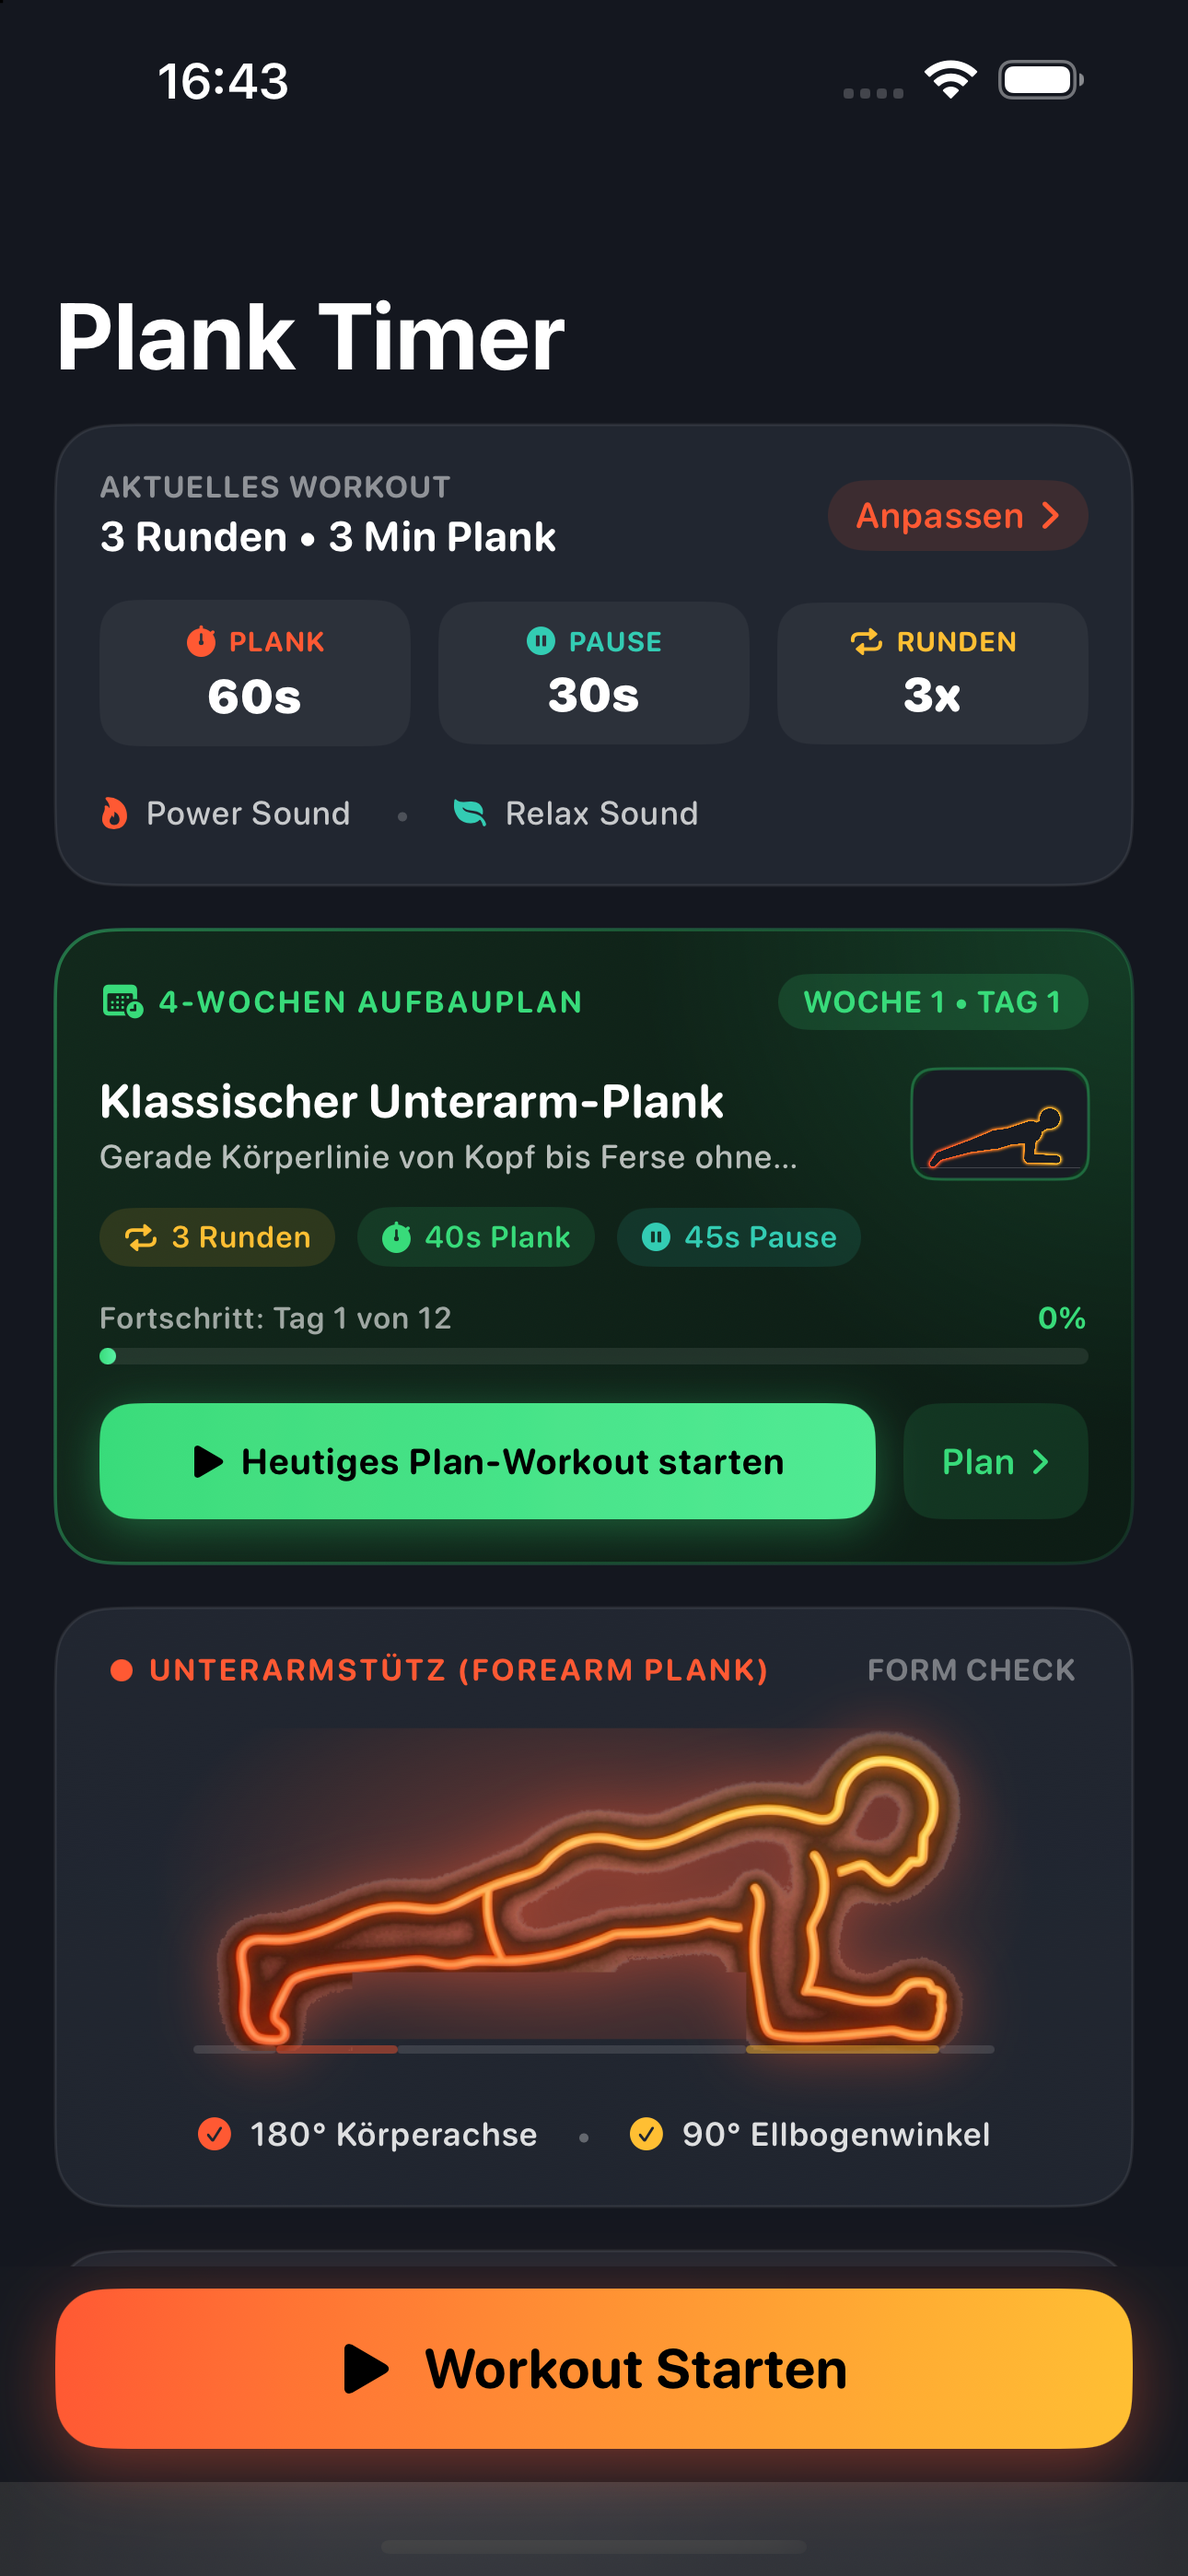
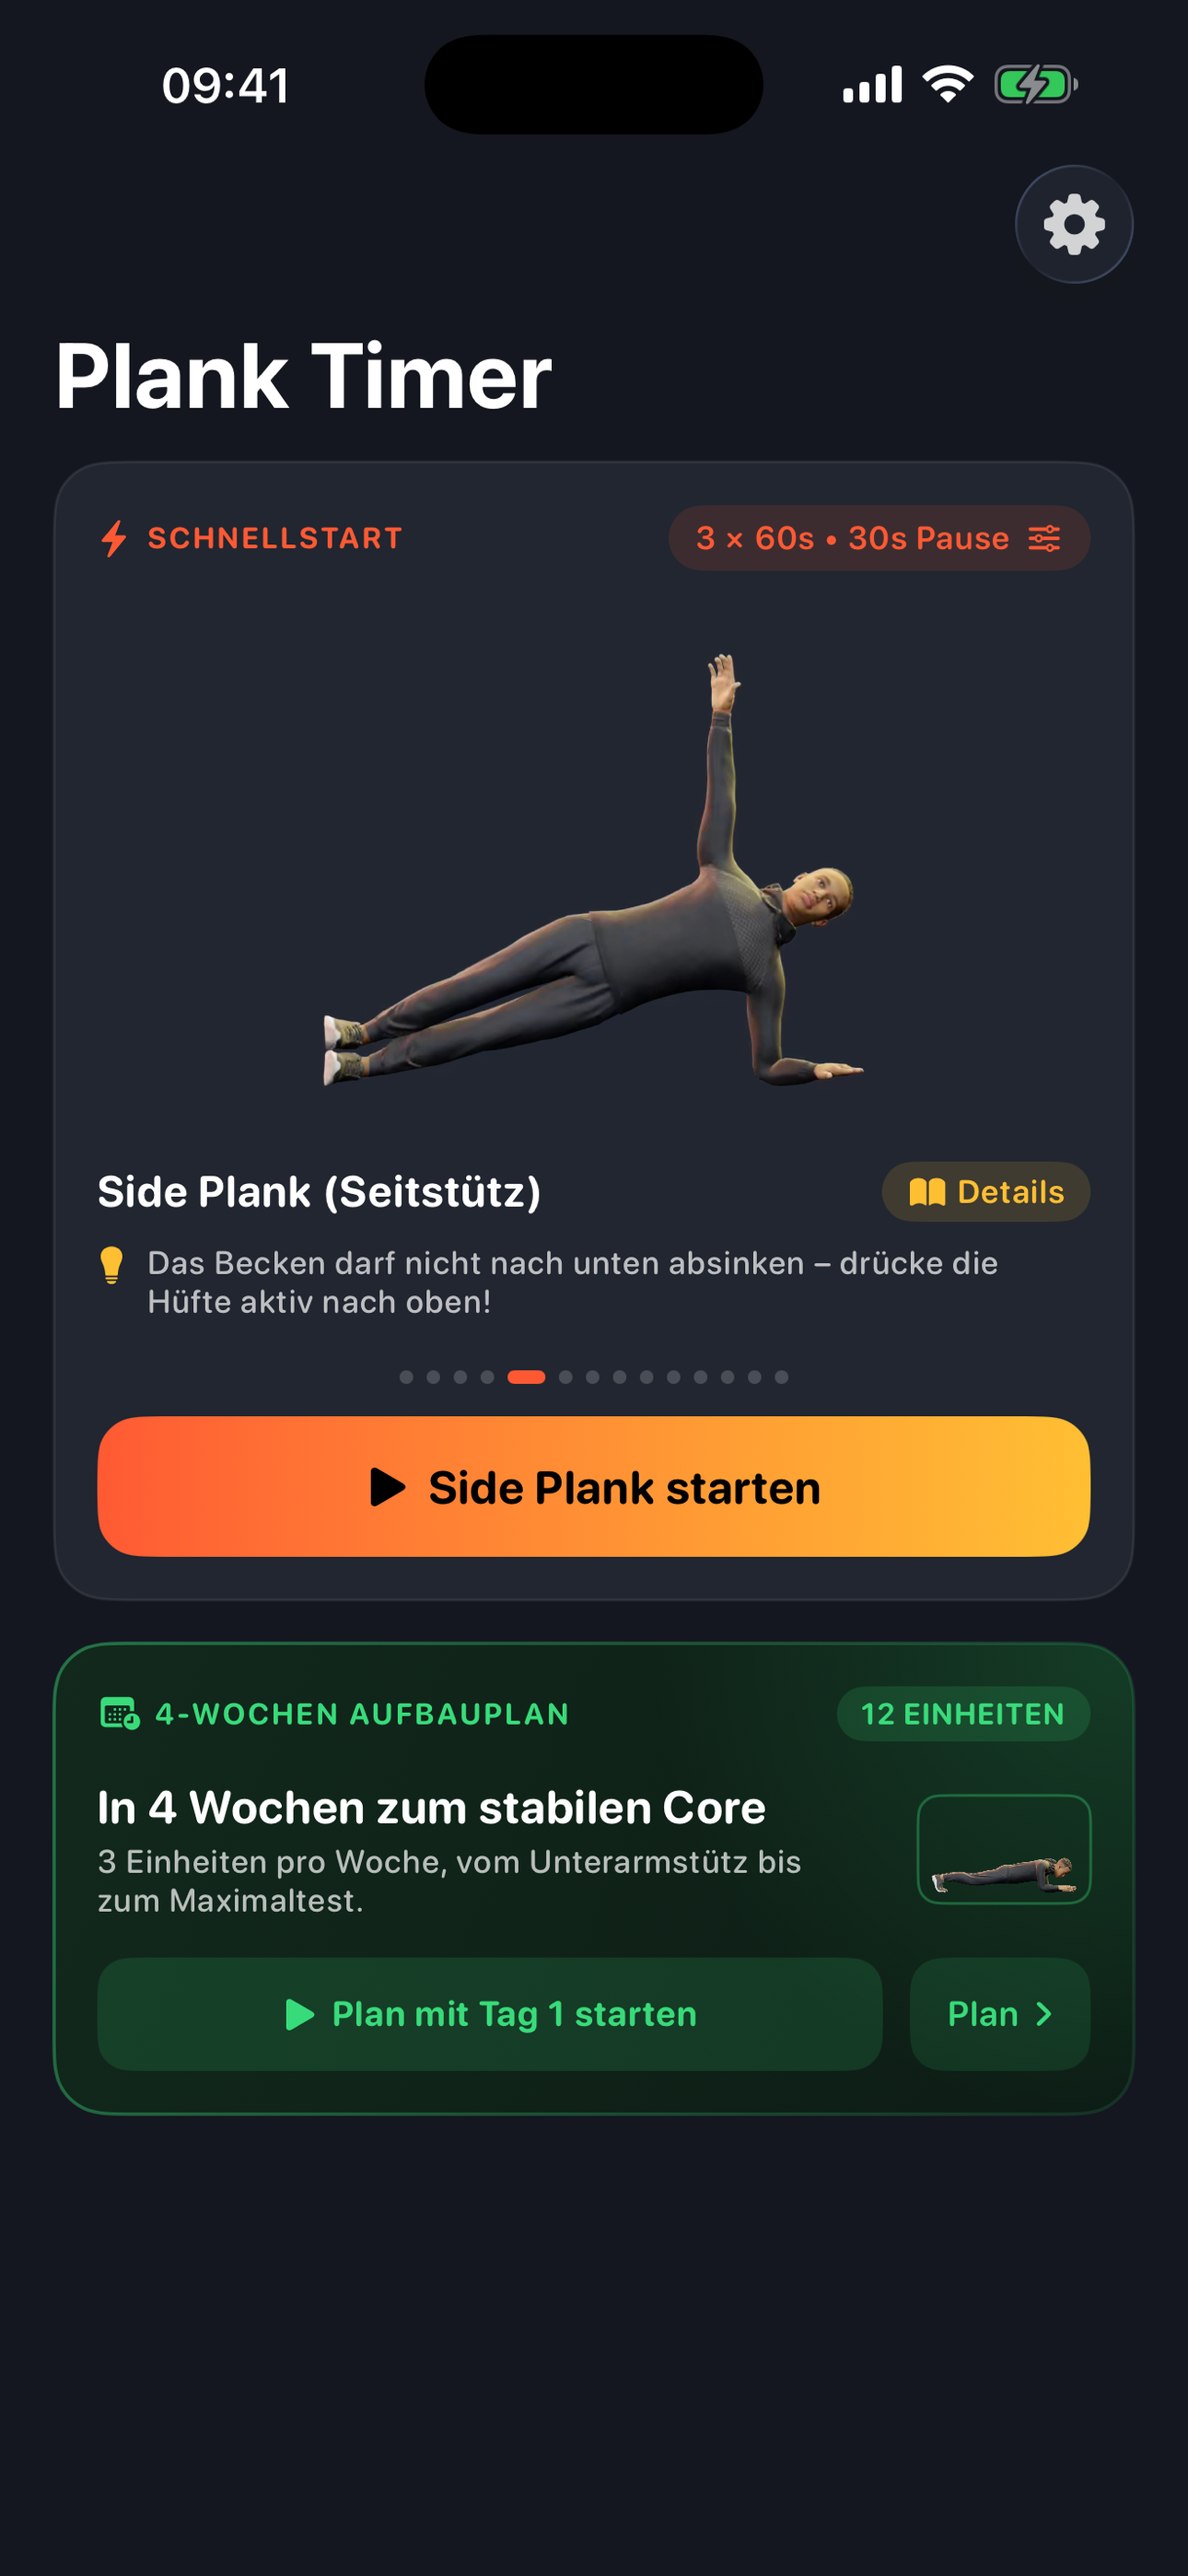
feat(plank-timer): update for v1.3.0 with 3D animations and new home screen
- Badges, hero text and stats for v1.3.0: realistic 3D animations for all
  14 plank types (female or male figure) and swipe-to-start quick start
- Six new 6.7" screenshots incl. the home screen with a running plan
- Feature card "Realistische 3D-Übungsfiguren" replaces the removed
  posture guide; apps and index teasers updated

diff --git a/plank-timer.html b/plank-timer.html
@@ -3,7 +3,7 @@
 <head>
   <meta charset="UTF-8">
   <meta name="viewport" content="width=device-width, initial-scale=1.0">
-  <meta name="description" content="Plank Musik Timer – Der smarte Intervall- und Core-Timer für iOS mit KI-Kamera-Form-Coach (Apple Vision), Apple Music Synchronisation, dynamischem Voice Coach und Apple Health Integration.">
+  <meta name="description" content="Plank Musik Timer – Der smarte Intervall- und Core-Timer für iOS mit realistischen 3D-Animationen für 14 Plank-Arten, Schnellstart per Wischen, KI-Kamera-Form-Coach (Apple Vision), Apple Music Synchronisation, dynamischem Voice Coach und Apple Health Integration.">
   <meta name="keywords" content="Plank Musik Timer, Plank Timer, Core Training App, Workout Timer Apple Music, Intervalltimer iOS, HealthKit Workout, Live Activity Timer, Dynamic Island, Alexander Wodniok">
   <meta name="author" content="Alexander Wodniok">
   <link rel="canonical" href="https://wodniok-service.de/plank-timer.html">
@@ -54,13 +54,13 @@
       <div class="hero-content">
         <div style="display: flex; gap: 0.5rem; flex-wrap: wrap; margin-bottom: 0.75rem;">
           <div class="badge badge-orange">Intervall- & Core-Workout für iOS</div>
-          <div class="badge badge-green">Neu in v1.2.0: KI-Kamera-Form-Coach</div>
+          <div class="badge badge-green">Neu in v1.3.0: 3D-Animationen für alle 14 Plank-Arten</div>
           <div class="badge" style="background: rgba(16, 185, 129, 0.12); color: #10b981; border-color: rgba(16, 185, 129, 0.3);">4-Wochen-Aufbauplan</div>
           <div class="badge" style="background: rgba(255, 122, 0, 0.12); color: #ff7a00; border-color: rgba(255, 122, 0, 0.3);">Apple Music & HealthKit Sync</div>
         </div>
         <h1>Plank <span class="text-gradient-orange">Musik Timer</span> 🔥</h1>
         <p class="hero-subtitle">
-          Hol das Maximum aus deinem Core-Training heraus. <strong>Plank Musik Timer (v1.2.0)</strong> kombiniert präzises Intervall-Timing mit einem intelligenten <strong>KI-Kamera-Form-Coach (Apple Vision)</strong> für Live-Haltungsfeedback, einem geführten <strong>4-Wochen-Aufbauplan</strong>, einem umfassenden <strong>Übungs-Lexikon mit 14 Plank-Varianten</strong> und deiner eigenen <strong>Apple Music Mediathek</strong>. 100% On-Device, mit dynamischem <strong>Voice Coach (Audio-Ducking)</strong>, <strong>Live Activities</strong> und <strong>Apple Health</strong> Synchronisation.
+          Hol das Maximum aus deinem Core-Training heraus. <strong>Plank Musik Timer (v1.3.0)</strong> zeigt dir jede der <strong>14 Plank-Varianten als realistische 3D-Animation</strong> – wahlweise mit weiblicher oder männlicher Figur. Wische im <strong>Schnellstart</strong> zur gewünschten Übung und leg mit deinem üblichen Set los, folge dem geführten <strong>4-Wochen-Aufbauplan</strong> oder lass dich vom <strong>KI-Kamera-Form-Coach (Apple Vision)</strong> korrigieren – begleitet von deiner eigenen <strong>Apple Music Mediathek</strong>. 100% On-Device, mit dynamischem <strong>Voice Coach (Audio-Ducking)</strong>, <strong>Live Activities</strong> und <strong>Apple Health</strong> Synchronisation.
         </p>
 
         <div class="hero-buttons" style="display: flex; align-items: center; gap: 1.25rem; flex-wrap: wrap;">
@@ -79,7 +79,7 @@
           </div>
           <div class="stat-item">
             <h4>14 Varianten</h4>
-            <p>Übungs-Lexikon & Posen</p>
+            <p>Als 3D-Animation</p>
           </div>
           <div class="stat-item">
             <h4>Apple Music & Health</h4>
@@ -91,7 +91,7 @@
       <!-- App Screenshot Hero -->
       <div class="hero-visual">
         <div class="app-visual-wrapper">
-          <img src="images/plank-timer-screenshot-home.png" alt="Plank Musik Timer Startseite mit Plank-Haltungsguide und Schnellstart" class="app-screenshot-hero" style="border-color: rgba(255, 122, 0, 0.45); box-shadow: var(--shadow-glow-orange); max-width: 290px;">
+          <img src="images/plank-timer-screenshot-home.png" alt="Plank Musik Timer Startseite mit Schnellstart und animiertem Side Plank" class="app-screenshot-hero" style="border-color: rgba(255, 122, 0, 0.45); box-shadow: var(--shadow-glow-orange); max-width: 290px;">
         </div>
       </div>
     </div>
@@ -103,16 +103,16 @@
       <div class="section-header" style="margin-bottom: 2rem;">
         <div class="badge badge-orange">Einblicke in die App</div>
         <h2>App-Screenshots & Benutzeroberfläche</h2>
-        <p>Klares, ablenkungsfreies Dark-Design mit warmen Akzenten – optimiert für schnellen Start direkt auf der Trainingsmatte.</p>
+        <p>Klares, ablenkungsfreies Dark-Design mit realistischen 3D-Übungsfiguren – optimiert für schnellen Start direkt auf der Trainingsmatte.</p>
       </div>
 
       <div class="screenshots-gallery-grid" style="grid-template-columns: repeat(auto-fit, minmax(220px, 1fr)); gap: 1.5rem;">
         <!-- Item 1: Startseite -->
         <div class="screenshot-gallery-item orange-hover">
           <div class="screenshot-img-box">
-            <img src="images/plank-timer-screenshot-home.png" alt="Plank Musik Timer Startseite mit smartem Plan und Haltungscheck">
+            <img src="images/plank-timer-screenshot-home.png" alt="Schnellstart mit Wisch-Auswahl der Plank-Art und 3D-Animation">
           </div>
-          <div class="screenshot-caption">🏠 Smarte Startseite mit 4-Wochen-Plan & Form-Check</div>
+          <div class="screenshot-caption">⚡ Schnellstart: Plank-Art wischen und direkt loslegen</div>
         </div>
 
         <!-- Item 2: KI-Kamera-Coach im Workout -->
@@ -123,12 +123,12 @@
           <div class="screenshot-caption">🤖 KI-Kamera-Coach: Live-Skelett & Form-Feedback im Workout</div>
         </div>
 
-        <!-- Item 3: Kamera-Coach Studio -->
+        <!-- Item 3: Startseite mit laufendem Plan -->
         <div class="screenshot-gallery-item orange-hover" style="border-color: rgba(16, 185, 129, 0.4);">
           <div class="screenshot-img-box">
-            <img src="images/plank-timer-screenshot-studio.png" alt="Kamera-Coach Studio und Kalibrierung mit 0.5x Ultra-Weitwinkel">
+            <img src="images/plank-timer-screenshot-home-plan.png" alt="Startseite mit laufendem 4-Wochen-Plan und weiblicher Übungsfigur">
           </div>
-          <div class="screenshot-caption">🔬 Kamera-Studio: 0.5× Ultra-Weitwinkel & Gelenkwinkel-Check</div>
+          <div class="screenshot-caption">📆 Laufender Plan: Heutiges Workout ganz oben, auch mit weiblicher Figur</div>
         </div>
 
         <!-- Item 4: 4-Wochen-Aufbauplan -->
@@ -142,17 +142,17 @@
         <!-- Item 5: Übungs-Lexikon -->
         <div class="screenshot-gallery-item orange-hover">
           <div class="screenshot-img-box">
-            <img src="images/plank-timer-screenshot-lexikon.png" alt="Plank Übungs-Lexikon mit anatomischem Posen-Piktogramm">
+            <img src="images/plank-timer-screenshot-lexikon.png" alt="Übungs-Lexikon mit 3D-Animation, Zielmuskulatur und Coach-Tipp">
           </div>
-          <div class="screenshot-caption">📖 Übungs-Lexikon mit 14 Varianten & Posen-Piktogrammen</div>
+          <div class="screenshot-caption">📖 Übungs-Lexikon: 14 Varianten mit 3D-Animation & Coach-Tipp</div>
         </div>
 
         <!-- Item 6: Einstellungen & Health -->
         <div class="screenshot-gallery-item orange-hover">
           <div class="screenshot-img-box">
-            <img src="images/plank-timer-screenshot-settings.png" alt="Plank Musik Timer Einstellungen und KI-Coach Schalter">
+            <img src="images/plank-timer-screenshot-settings.png" alt="Plank Musik Timer Einstellungen mit Zeiten, Apple Health und Übungsfigur">
           </div>
-          <div class="screenshot-caption">⚙ Einstellungen: KI-Coach, Apple Music & HealthKit Sync</div>
+          <div class="screenshot-caption">⚙ Einstellungen: Zeiten, Übungsfigur, Apple Music & HealthKit</div>
         </div>
       </div>
     </div>
@@ -209,8 +209,8 @@
           <div class="feature-icon orange">
             <svg viewBox="0 0 24 24" fill="none" stroke="currentColor" stroke-width="2"><path d="M18 20V10"></path><path d="M12 20V4"></path><path d="M6 20v-6"></path></svg>
           </div>
-          <h3>Integrierter Plank-Haltungsguide</h3>
-          <p>Qualität vor Quantität: Die Startseite visualisiert die ergonomisch perfekte Plank-Körperlinie und fasst die wichtigsten Haltungsgrundsätze zusammen – gerader Rücken, angespannter Rumpf, stabile Schultern und gleichmäßige Atmung.</p>
+          <h3>Realistische 3D-Übungsfiguren</h3>
+          <p>Statt Strichmännchen machen animierte Athletinnen und Athleten jede der <strong>14 Plank-Varianten</strong> vor – inklusive der kompletten Bewegung bei Up-Downs, Mountain Climbers, Spider Plank und Hip Dips. Wähle in den Einstellungen eine <strong>weibliche oder männliche Figur</strong>; jede Übung kommt mit Zielmuskulatur und Coach-Tipp.</p>
         </div>
 
         <!-- Feature 6: Privacy First & Offline -->

diff --git a/apps.html b/apps.html
@@ -155,7 +155,7 @@
             </div>
 
             <p style="font-size: 1rem; margin-bottom: 0;">
-              Der smarte Workout-Timer für dein Core- und Intervall-Training: Version 1.2.0 bringt einen innovativen KI-Kamera-Form-Coach (Apple Vision On-Device) für Echtzeit-Haltungsfeedback, einen geführten 4-Wochen-Aufbauplan (12 Progressionstage) und ein umfassendes Übungs-Lexikon mit 14 Plank-Varianten & anatomischen Posen-Piktogrammen. Synchronisiere Power- und Relax-Playlists aus Apple Music, trainiere mit dynamischem Voice Coach (Audio-Ducking) und schließe deine Ringe mit direkter Apple Health Integration.</p>
+              Der smarte Workout-Timer für dein Core- und Intervall-Training: Version 1.3.0 zeigt alle 14 Plank-Varianten als realistische 3D-Animation (weibliche oder männliche Figur) und bietet einen Schnellstart per Wischgeste, dazu einen KI-Kamera-Form-Coach (Apple Vision On-Device) für Echtzeit-Haltungsfeedback und einen geführten 4-Wochen-Aufbauplan (12 Progressionstage). Synchronisiere Power- und Relax-Playlists aus Apple Music, trainiere mit dynamischem Voice Coach (Audio-Ducking) und schließe deine Ringe mit direkter Apple Health Integration.</p>
           </div>
         </div>
       </div>

diff --git a/index.html b/index.html
@@ -208,7 +208,7 @@
           </div>
           <h3>Plank Musik Timer 🔥</h3>
           <p>
-            Der smarte Core-Timer für iOS: Neu in v1.2.0 mit KI-Kamera-Form-Coach (Apple Vision), 4-Wochen-Aufbauplan und 14 Plank-Varianten im Übungs-Lexikon! Synchronisiere deine Workouts mit Apple Music Playlists, trainiere mit dynamischem Voice Coach (Audio-Ducking) und schließe deine Apple Health Ringe.</p>
+            Der smarte Core-Timer für iOS: Neu in v1.3.0: alle 14 Plank-Varianten als realistische 3D-Animation – wahlweise mit weiblicher oder männlicher Figur – und Schnellstart per Wischgeste, dazu KI-Kamera-Form-Coach und 4-Wochen-Aufbauplan! Synchronisiere deine Workouts mit Apple Music Playlists, trainiere mit dynamischem Voice Coach (Audio-Ducking) und schließe deine Apple Health Ringe.</p>
           <div style="margin-top: 1.5rem; display: flex; gap: 0.75rem; flex-wrap: wrap;">
             <a href="plank-timer.html" class="btn btn-orange btn-sm">Details & Features →</a>
             <a href="kontakt.html?topic=plank-timer-beta" class="btn btn-secondary btn-sm">🚀 TestFlight Beta</a>
